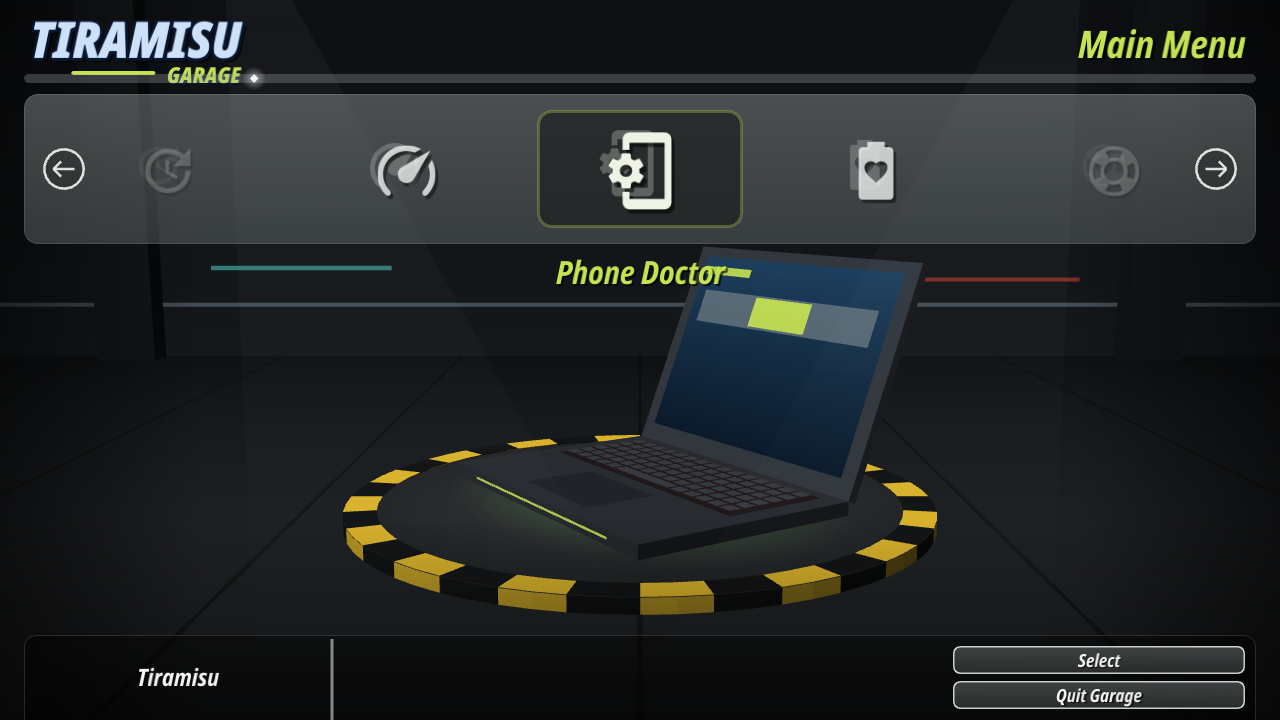
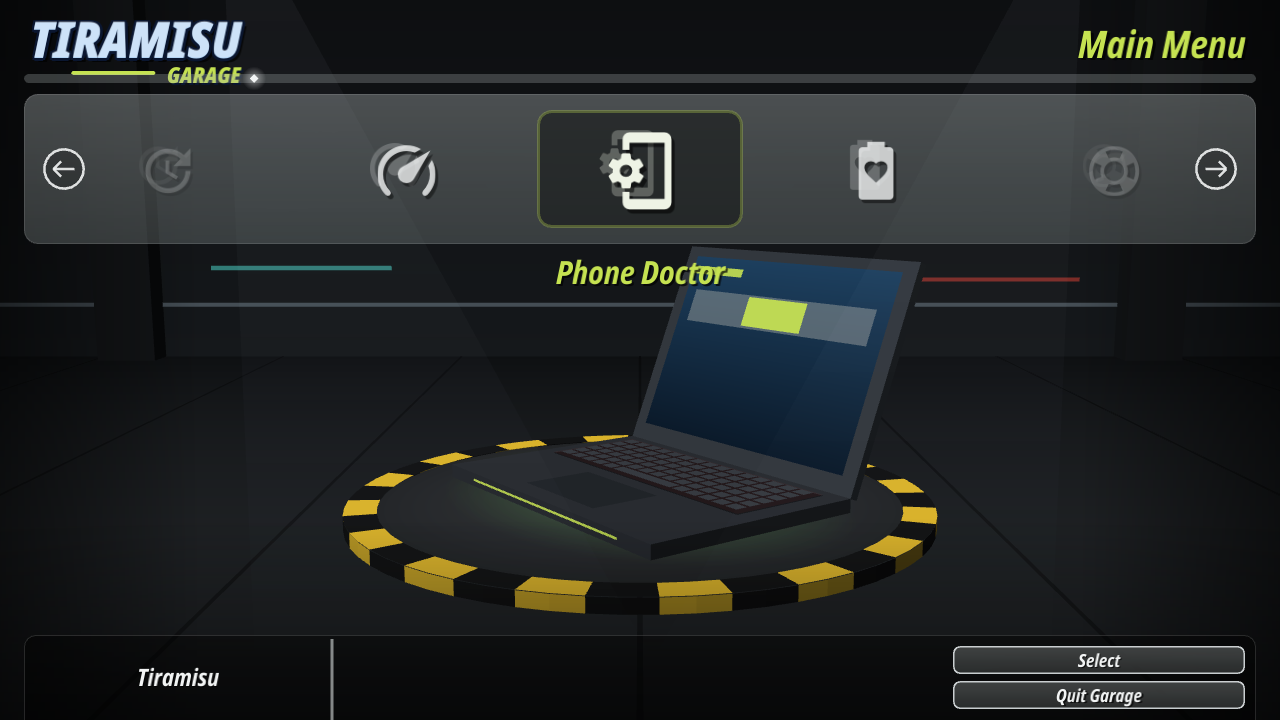
Keep selection box centred in every carousel

diff --git a/src/tuner.rs b/src/tuner.rs
@@ -52,6 +52,8 @@ pub struct Tuner {
     preset: usize,
     work: Option<Work>,
     bars: [Spring; N_SPEEDS],
+    /// CPU/GPU tiles slide under a fixed centre box, like the menu carousels
+    tab_slide: Spring,
     drag_col: bool,
     drag_label: Option<(usize, f32, i32)>,
     hover_label: Option<usize>,
@@ -94,6 +96,7 @@ impl Tuner {
             preset: 0,
             work: None,
             bars: [Spring::new(0.0); N_SPEEDS],
+            tab_slide: Spring::new(0.0),
             drag_col: false,
             drag_label: None,
             hover_label: None,
@@ -501,18 +504,25 @@ impl Tuner {
         self.arrows = [la, ra];
         let pulse = 0.5 + 0.5 * ((now - self.changed_at) as f32 * std::f32::consts::TAU / 1.25).cos();
         let labels = [('\u{F0EE0}', "CPU  ·  table 1"), ('\u{F08AE}', "GPU  ·  table 2")];
+        // the box never moves: the selected tile slides under it, the other
+        // one waits a slot away (the end of the list is just an empty slot)
+        self.tab_slide.target = self.tab as f32;
+        self.tab_slide.update(dt, 17.0);
+        let (tw, gap) = (250.0, 290.0);
+        let bx = ui.w * 0.5 - tw * 0.5;
+        let by = sy + 7.0;
+        ui.rrect(bx, by, tw, sh - 14.0, 10.0, Color::new(0.10, 0.11, 0.11, 0.70));
+        ui.rrect_line(bx - 1.0, by - 1.0, tw + 2.0, sh - 12.0, 11.0, 2.5, Color::new(LIME.r, LIME.g, LIME.b, hl * (0.35 + 0.65 * pulse)));
         for (i, (g, l)) in labels.iter().enumerate() {
-            let tw = 250.0;
-            let x = ui.w * 0.5 + if i == 0 { -tw - 20.0 } else { 20.0 };
-            let r = Rect::new(x, sy + 7.0, tw, sh - 14.0);
-            let on = self.tab == i;
-            if on {
-                ui.rrect(r.x, r.y, r.w, r.h, 10.0, Color::new(0.10, 0.11, 0.11, 0.70));
-                ui.rrect_line(r.x - 1.0, r.y - 1.0, r.w + 2.0, r.h + 2.0, 11.0, 2.5, Color::new(LIME.r, LIME.g, LIME.b, hl * (0.35 + 0.65 * pulse)));
-            }
-            let col = if on { TXT } else { Color::new(0.85, 0.87, 0.88, 0.7) };
+            let d = i as f32 - self.tab_slide.value;
+            let x = bx + d * gap;
+            let r = Rect::new(x, by, tw, sh - 14.0);
+            let near = 1.0 - d.abs().min(1.0); // 1 under the box, 0 a slot away
+            let a = 0.7 + 0.3 * near;
+            let col = Color::new(0.85 + 0.10 * near, 0.87 + 0.09 * near, 0.88 + 0.08 * near, a);
+            let lab = Color::new(col.r + (LIME.r - col.r) * near, col.g + (LIME.g - col.g) * near, col.b + (LIME.b - col.b) * near, a);
             ui.icon(*g, r.x + 34.0, r.y + r.h * 0.5, 32.0, col);
-            ui.text_sh(l, r.x + 64.0, r.y + 31.0, 22.0, if on { LIME } else { col }, Align::Left);
+            ui.text_sh(l, r.x + 64.0, r.y + 31.0, 22.0, lab, Align::Left);
             self.tiles[i] = r;
         }
 

diff --git a/src/main.rs b/src/main.rs
@@ -93,13 +93,11 @@ impl StripState {
     }
 }
 
-/// Where a strip's first item sits and how far it should be scrolled.
 /// Which item index sits at the centre of the strip. Like the game's
-/// three-icon carousel: the selection box stays put in the middle and the
-/// icons scroll under it; only on the first and last item does the scroll
-/// stop and the box walk to the side.
-fn strip_scroll_target(n: usize, sel: usize) -> f32 {
-    if n <= 3 { (n as f32 - 1.0) * 0.5 } else { (sel as f32).clamp(1.0, n as f32 - 2.0) }
+/// carousel: the selection box never moves, the selected icon is always
+/// scrolled under it, and the ends of the list just leave empty slots.
+fn strip_scroll_target(_n: usize, sel: usize) -> f32 {
+    sel as f32
 }
 
 /// Opacity of an icon `d` slots away from the centre: the three middle
@@ -277,9 +275,9 @@ impl Demo {
         let steps = vec![
             (1.0, Shot("01-main")),
             (1.2, Right),
-            (1.27, Shot("02-box-walks-to-centre")),
+            (1.27, Shot("02-icons-slide")),
             (1.7, Right),
-            (1.76, Shot("03-icons-slide-box-stays")),
+            (1.76, Shot("03-icons-slide-more")),
             (2.3, Shot("04-main-centred")),
             (2.5, Tool(1)),
             (2.9, Shot("05-main-performance")),
@@ -1456,10 +1454,9 @@ impl App {
             hits.push((Rect::new(x - SLOT * 0.5, STRIP_Y, SLOT, STRIP_H), i));
         }
 
-        // label under the strip, in lime, under the selected item
+        // label under the strip, in lime; stays centred like the game's, even when the box slides to an end
         if let Some(it) = items.get(st.sel) {
-            let lx = bx.clamp(160.0, w - 160.0);
-            ui.text_sh(&it.label, lx, STRIP_Y + STRIP_H + 40.0, 32.0, Color::new(LIME.r, LIME.g, LIME.b, hl.max(0.25)), Align::Center);
+            ui.text_sh(&it.label, w * 0.5, STRIP_Y + STRIP_H + 40.0, 32.0, Color::new(LIME.r, LIME.g, LIME.b, hl.max(0.25)), Align::Center);
         }
         self.hits.items = hits;
         self.hits.prev = Some(lp);

diff --git a/README.md b/README.md
@@ -24,9 +24,9 @@ uses no game assets.
   Media Lab, Paint Shop, Options).
 - **Enter on a tool** opens a second carousel with that tool's sub-commands,
   e.g. `safe-update check / post / fix-dkms / after-reboot / …`.
-- **Carousel behaviour:** the selection box stays in the centre while the icons
-  slide under it. It only moves to the side on the first and last item. Icons
-  fade smoothly the further they are from the centre.
+- **Carousel behaviour:** the selection box and the name under it never move;
+  the icons slide under the box, and at either end of the list the empty slots
+  just stay empty. Icons fade smoothly the further they are from the centre.
 - **Fan Curve Tuner (built in):** the "ECU tuning" bar chart for both MSI EC
   fan tables (CPU and GPU). Red means quieter than the MSI factory curve, dark
   teal means louder, and the orange box is the step the fan is on right now.
